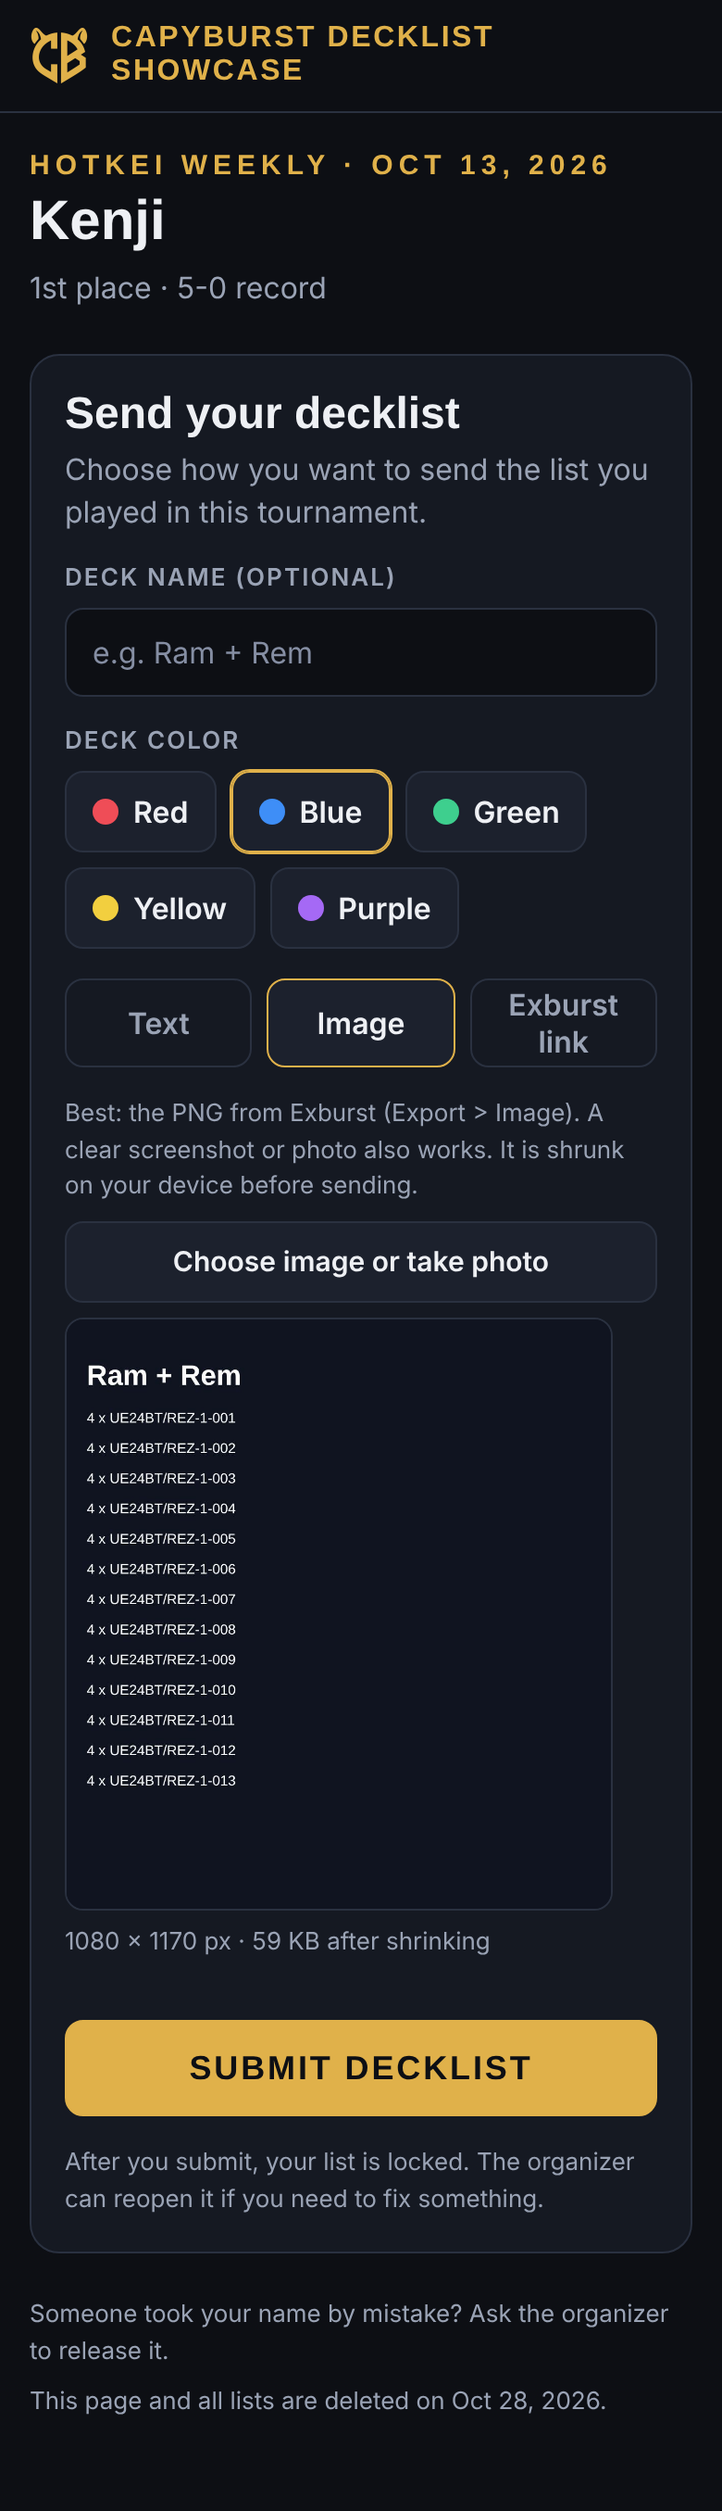
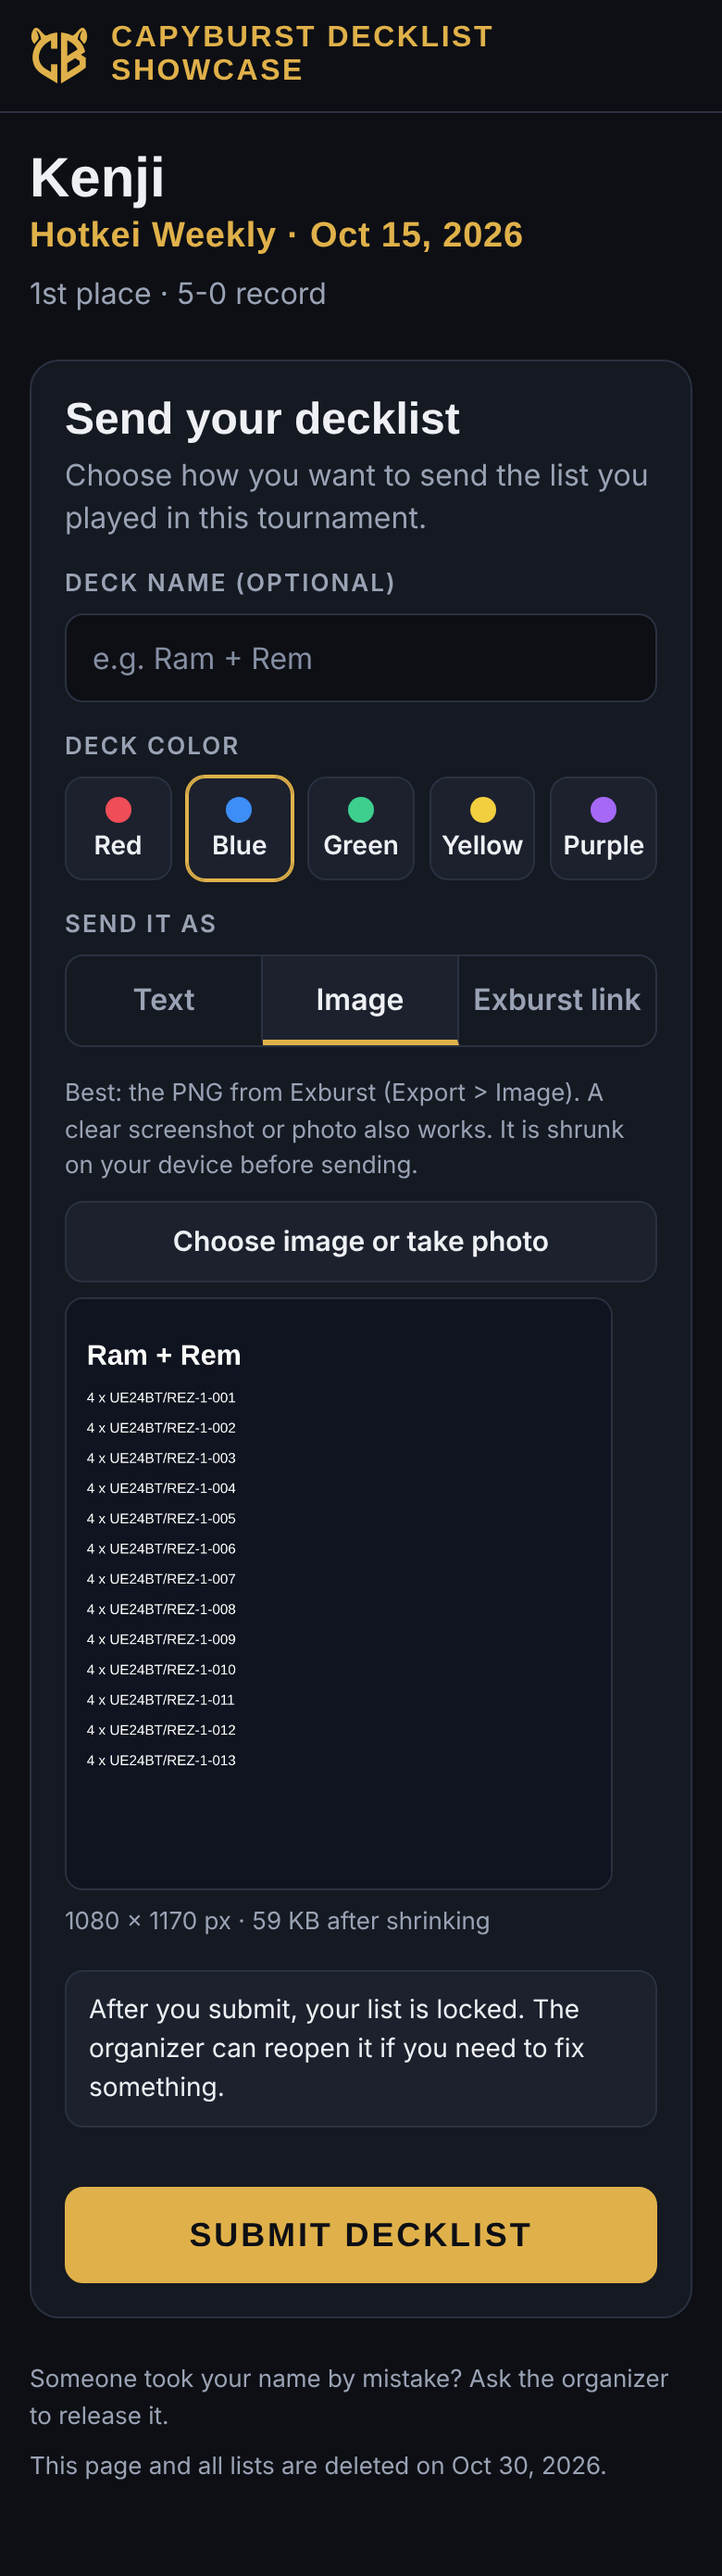
v0.1.7: polish pass (player form, hierarchy, details)
Claude-Session: https://claude.ai/code/session_01AVt5hWhybi9vEcXTd5Rvm1

diff --git a/css/styles.css b/css/styles.css
@@ -135,9 +135,11 @@ h2.sec { font-family: var(--font-head); font-weight: 700; font-size: 24px; }
 .colors { display: flex; flex-wrap: wrap; gap: 8px; }
 .colors .chip { display: inline-flex; align-items: center; gap: 8px; min-height: 44px; padding: 0 14px; border-radius: 10px; background: var(--card-2); color: var(--text); }
 .colors .chip[aria-checked="true"] { background: var(--card-2); border-color: var(--gold); outline: 1px solid var(--gold); color: var(--text); }
-.tabs { display: grid; grid-template-columns: repeat(3, 1fr); gap: 8px; }
-.tab { min-height: 48px; border-radius: 10px; border: 1px solid var(--line); background: var(--card); color: var(--muted); font-weight: 600; cursor: pointer; }
-.tab[aria-selected="true"] { background: var(--card-2); border-color: var(--gold); color: var(--text); }
+.tabs { display: grid; grid-template-columns: repeat(3, 1fr); gap: 0; border: 1px solid var(--line); border-radius: 10px; overflow: hidden; background: var(--card); }
+.tab { min-height: 48px; border-radius: 0; border: 0; border-bottom: 3px solid transparent; border-right: 1px solid var(--line); background: transparent; color: var(--muted); font-weight: 600; cursor: pointer; }
+.tab:last-child { border-right: 0; }
+.tab[aria-selected="true"] { background: var(--card-2); border-bottom-color: var(--gold); color: var(--text); }
+.tab:focus-visible { outline-offset: -3px; }
 .imgprev { max-width: 100%; max-height: 320px; border-radius: 10px; border: 1px solid var(--line); align-self: flex-start; }
 
 /* modal */
@@ -310,3 +312,20 @@ input[type="date"].input::-webkit-date-and-time-value { text-align: left; }
 @media (max-width: 760px) { .embed-frame { min-height: 52dvh; } }
 
 @media (max-width: 640px) { .topbar-right .who { display: none; } }
+
+/* ---- polish pass ---- */
+:root { color-scheme: dark; accent-color: var(--gold); scrollbar-color: #3a4256 var(--bg); }
+::selection { background: var(--gold); color: #0d0f14; }
+input, textarea { caret-color: var(--gold); }
+h1, h2, h3 { text-wrap: balance; }
+.sl-rank, .count, .q, .pres-rank, .rk { font-variant-numeric: tabular-nums; }
+.btn.gold-outline { background: transparent; border: 1px solid var(--gold); color: var(--gold-hi); }
+.btn.gold-outline:hover { background: var(--gold); color: #0d0f14; }
+.ev-line { margin-top: 4px; font-family: var(--font-head); font-weight: 600; font-size: 19px; letter-spacing: 0.02em; color: var(--gold); }
+.lock-note { font-size: 14px; line-height: 1.5; color: var(--text); background: var(--card-2); border: 1px solid var(--line); border-radius: 10px; padding: 10px 12px; }
+.colors { display: grid; grid-template-columns: repeat(5, minmax(0, 1fr)); gap: 8px; }
+.colors .chip { flex-direction: column; justify-content: center; gap: 4px; padding: 6px 4px; min-height: 56px; font-size: 14px; text-align: center; }
+@media (min-width: 560px) { .colors .chip { flex-direction: row; gap: 8px; min-height: 44px; padding: 0 12px; } }
+@media (max-width: 640px) { .head-actions .btn.primary { order: -1; } }
+.pres-deck { font-size: clamp(18px, 4.2vh, 38px); padding: 1.6vh 1.8vw; }
+@media (prefers-reduced-motion: reduce) { * { scroll-behavior: auto !important; transition-duration: 0.01ms !important; animation-duration: 0.01ms !important; } }

diff --git a/js/views/player.js b/js/views/player.js
@@ -31,8 +31,7 @@ export async function playerView(eventId) {
   function header() {
     const ev = data.event;
     return h('div', null,
-      h('div', { class: 'eyebrow', text: 'Union Arena tournament' }),
-      h('h1', { class: 'title', style: 'margin-top:6px', text: ev.name }),
+      h('h1', { class: 'title', text: ev.name }),
       h('p', { class: 'subtitle', text: formatDate(ev.datePlayed) + ' · ' + plural(data.players.length, 'player', 'players') }));
   }
 
@@ -60,7 +59,7 @@ export async function playerView(eventId) {
     const rows = data.players.map((p) => {
       let right;
       if (p.state === 'open' && ev.status === 'open') {
-        right = h('button', { class: 'btn primary', style: 'font-size:16px;min-height:44px;padding:0 16px', type: 'button', onclick: () => root.replaceChildren(...drawPicker(p).filter(Boolean)) }, "That's me");
+        right = h('button', { class: 'btn gold-outline', style: 'font-size:16px;min-height:44px;padding:0 16px', type: 'button', onclick: () => root.replaceChildren(...drawPicker(p).filter(Boolean)) }, "That's me");
       } else if (p.state === 'open') {
         right = h('span', { class: 'claim-state', text: 'Not claimed' });
       } else {
@@ -121,8 +120,8 @@ export async function playerView(eventId) {
     const p = data.players.find((x) => x.playerId === me.playerId);
     const top = [
       h('div', null,
-        h('div', { class: 'eyebrow', text: data.event.name + ' · ' + formatDate(data.event.datePlayed) }),
-        h('h1', { class: 'title', style: 'margin-top:6px', text: p.name }),
+        h('h1', { class: 'title', text: p.name }),
+        h('p', { class: 'ev-line', text: data.event.name + ' · ' + formatDate(data.event.datePlayed) }),
         h('p', { class: 'subtitle', text: ordinal(p.rank) + ' place' + (p.record ? ' · ' + p.record + ' record' : '') }))
     ];
     if (me.deck && me.locked) {
@@ -228,10 +227,10 @@ export async function playerView(eventId) {
       closed ? h('div', { class: 'banner info', text: 'This tournament is no longer accepting lists.' }) : null,
       h('div', { class: 'stack' }, h('label', { class: 'lbl', for: 'deck-name', text: 'Deck name (optional)' }), deckName),
       h('div', { class: 'stack' }, h('span', { class: 'lbl', id: 'color-lbl', text: 'Deck color' }), h('div', { class: 'colors', role: 'radiogroup', 'aria-labelledby': 'color-lbl' }, colorBtns)),
-      h('div', { class: 'tabs', role: 'tablist' }, tabBtns),
+      h('div', { class: 'stack' }, h('span', { class: 'lbl', id: 'fmt-lbl', text: 'Send it as' }), h('div', { class: 'tabs', role: 'tablist', 'aria-labelledby': 'fmt-lbl' }, tabBtns)),
       panels.txt, panels.photo, panels.link,
-      msg, send,
-      h('p', { class: 'hint', text: 'After you submit, your list is locked. The organizer can reopen it if you need to fix something.' }));
+      h('p', { class: 'lock-note', text: 'After you submit, your list is locked. The organizer can reopen it if you need to fix something.' }),
+      msg, send);
 
     form.addEventListener('submit', async (e) => {
       e.preventDefault();

diff --git a/js/views/newEvent.js b/js/views/newEvent.js
@@ -19,9 +19,7 @@ export function newEventView() {
   const previewCount = h('span', { class: 'hint' });
   const formMsg = h('div');
   const submit = h('button', { class: 'btn primary', type: 'submit', style: 'flex:1 1 200px;min-height:52px' }, 'Create & get link');
-  const sharePanel = h('div', { class: 'card' },
-    h('h2', { class: 'sec', text: 'Share link' }),
-    h('p', { class: 'hint', text: 'The link appears after you create the tournament. Post it in your group chat.' }));
+  const sharePanel = h('div', { class: 'card', hidden: true }); // appears only once the tournament exists
 
   function drawPreview() {
     const r = parseResults(results.value);
@@ -44,7 +42,7 @@ export function newEventView() {
   }
   results.addEventListener('input', drawPreview);
 
-  const form = h('form', { class: 'card', novalidate: true },
+  const form = h('form', { class: 'card', novalidate: true, oninput: () => { if (formMsg.querySelector('.banner.error')) formMsg.replaceChildren(); } },
     h('div', { class: 'stack' }, h('label', { class: 'lbl', for: 'tname', text: 'Tournament name' }), name),
     h('div', { class: 'row', style: 'align-items:flex-start' },
       h('div', { class: 'stack', style: 'flex:1 1 180px' }, h('label', { class: 'lbl', for: 'tdate', text: 'Date played' }), date),
@@ -85,6 +83,7 @@ export function newEventView() {
       formMsg.replaceChildren(h('div', { class: 'banner ok', text: 'Tournament created with ' + plural(res.playerCount, 'player', 'players') + '.' }));
       const linkInput = h('input', { class: 'input', type: 'text', readonly: true, value: link, 'aria-label': 'Public tournament link' });
       linkInput.addEventListener('focus', () => linkInput.select());
+      sharePanel.hidden = false;
       sharePanel.replaceChildren(
         h('h2', { class: 'sec', text: 'Share link' }),
         h('div', { class: 'linkbox' }, linkInput,

diff --git a/js/views/editEvent.js b/js/views/editEvent.js
@@ -111,7 +111,7 @@ export async function editEventView(eventId) {
           h('h2', { class: 'sec', text: 'Players and decklists' }),
           h('p', { class: 'hint', text: submittedCount + ' of ' + data.players.length + ' lists in. Release a list so the player can send a new one. Their old list is kept until they replace it.' })),
         h('div', { class: 'row' },
-          h('button', { class: 'btn primary small', type: 'button', style: 'font-size:14px', disabled: submittedCount === 0, onclick: exportAll }, 'Export all lists (.zip)'),
+          h('button', { class: 'btn small', type: 'button', disabled: submittedCount === 0, onclick: exportAll }, 'Export all lists (.zip)'),
           h('button', { class: 'btn small', type: 'button', onclick: addPlayer }, 'Add late player'))),
       h('div', { class: 'table' }, rows),
       h('p', { class: 'hint', text: "Editing a name, rank or record keeps the player's claim and list. Removing a player also deletes their list. Text lists download as .txt; images and links are listed in summary.csv inside the .zip." }));

diff --git a/js/views/dashboard.js b/js/views/dashboard.js
@@ -10,8 +10,8 @@ export async function dashboardView() {
     h('div', { class: 'row between' },
       h('div', null,
         h('h1', { class: 'title', text: 'Your tournaments' }),
-        h('p', { class: 'subtitle', text: 'Every organizer can see and manage all tournaments. Signed in as ' + (me ? me.name : '') })),
-      h('div', { class: 'row' }, refreshButton(() => dashboardView()), h('a', { class: 'btn primary', href: '#/new' }, icon('plus'), 'New tournament'))),
+        h('p', { class: 'subtitle', text: 'Every organizer can see and manage all tournaments.' })),
+      h('div', { class: 'row head-actions' }, refreshButton(() => dashboardView()), h('a', { class: 'btn primary', href: '#/new' }, icon('plus'), 'New tournament'))),
     body));
   body.append(spinner('Loading tournaments...'));
   let events;

diff --git a/CHANGELOG.md b/CHANGELOG.md
@@ -1,5 +1,14 @@
 # Changelog
 
+## 0.1.7 — pulido
+- **Formulario del jugador:** los colores del deck ahora van en una sola fila de 5 y el formato (Text / Image / Exburst link) es una barra segmentada con el título "Send it as", así ya no se confunden. El aviso de que la lista queda bloqueada está encima del botón Enviar, bien visible.
+- **Lista de nombres:** los botones "That's me" son de contorno dorado; el dorado sólido queda para la acción principal de cada pantalla (en Editar torneo, "Export all lists" pasó a botón normal).
+- **Página del jugador:** el nombre del torneo y la fecha ya no van en letras espaciadas arriba; ahora van bajo el nombre del jugador, en dorado.
+- **Presentación:** el nombre del deck es más grande en cada slide.
+- **Panel:** "New tournament" va antes que Refresh en celular; se quitó el "Signed in as" repetido del subtítulo.
+- **Crear torneo:** la tarjeta vacía "Share link" ya no aparece hasta crear el torneo; el error de un campo desaparece al editarlo (antes podía quedarse un error viejo).
+- **Detalles del navegador:** selección de texto, cursor, barras de desplazamiento y selector de fecha en colores de la app; números alineados en puestos y contadores; menos animación si el sistema lo pide.
+
 ## 0.1.6
 - **CapyLeague:** los organizadores con sesión iniciada ven un botón **CapyLeague** en la barra de arriba que abre la página de CapyLeague en una pestaña nueva. No aparece en el login ni en la página de los jugadores. El link se cambia (o se quita, dejándolo vacío) en `config.js`, campo `CAPYLEAGUE_URL`.
 - En celular, el texto "Signed in as" de la barra de arriba se oculta para que los botones quepan en una fila.

diff --git a/TECHNICAL_CHANGELOG.md b/TECHNICAL_CHANGELOG.md
@@ -1,5 +1,10 @@
 # Technical changelog
 
+## 0.1.7
+- CSS: `.tabs` segmentado, `.colors` grid de 5 (vertical bajo 560 px), `.btn.gold-outline`, `.ev-line`, `.lock-note`, `color-scheme: dark`, `accent-color`, `::selection`, `caret-color`, `scrollbar-color`, `tabular-nums`, `text-wrap: balance`, `prefers-reduced-motion` global, `.head-actions` con `order`.
+- `newEvent.js`: `sharePanel` oculto hasta crear; `oninput` limpia `.banner.error`. `player.js`: sin `.eyebrow`, `aria-labelledby` en tablist. Se mantienen la tarjeta de pasos 01/02/03 y el kicker del login (decisión pendiente).
+- Pruebas: aserción de error limpiado al editar. Total 85.
+
 ## 0.1.6
 - `config.js`: `CAPYLEAGUE_URL` opcional (solo https). `layout.js`: `capyLeagueLink()` en `organizerShell`. La protección real del contenido depende del modo de compartir del artifact, no del login de esta app (la URL está en el código público).
 - Pruebas e2e: +1 (visible solo para organizadores, `target=_blank`, `rel=noopener`). Total 85.
